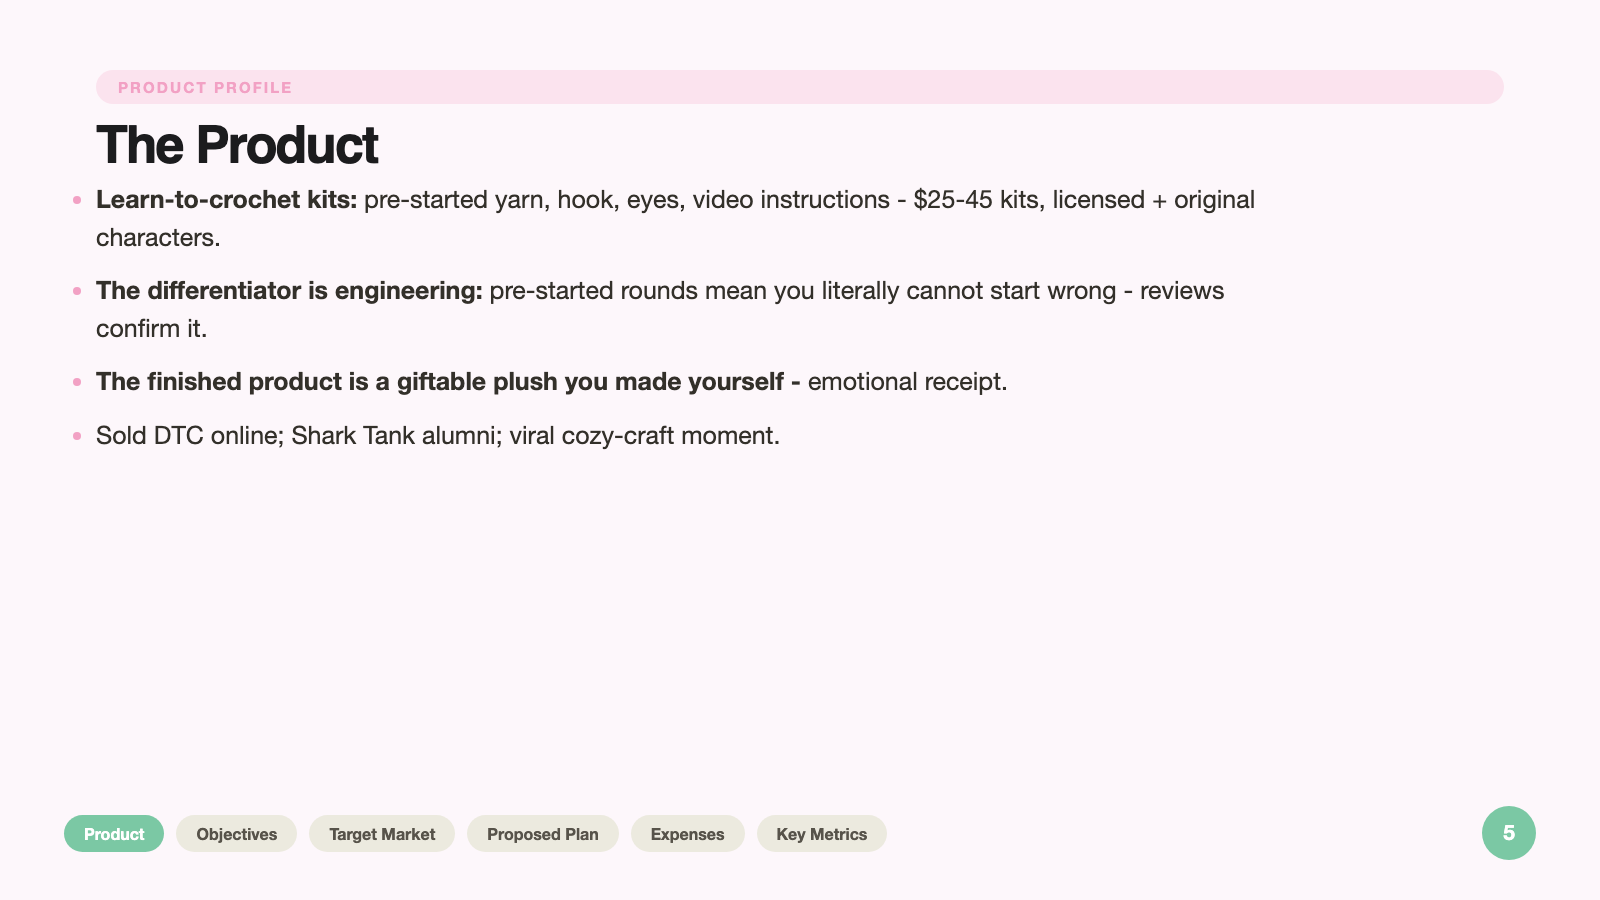
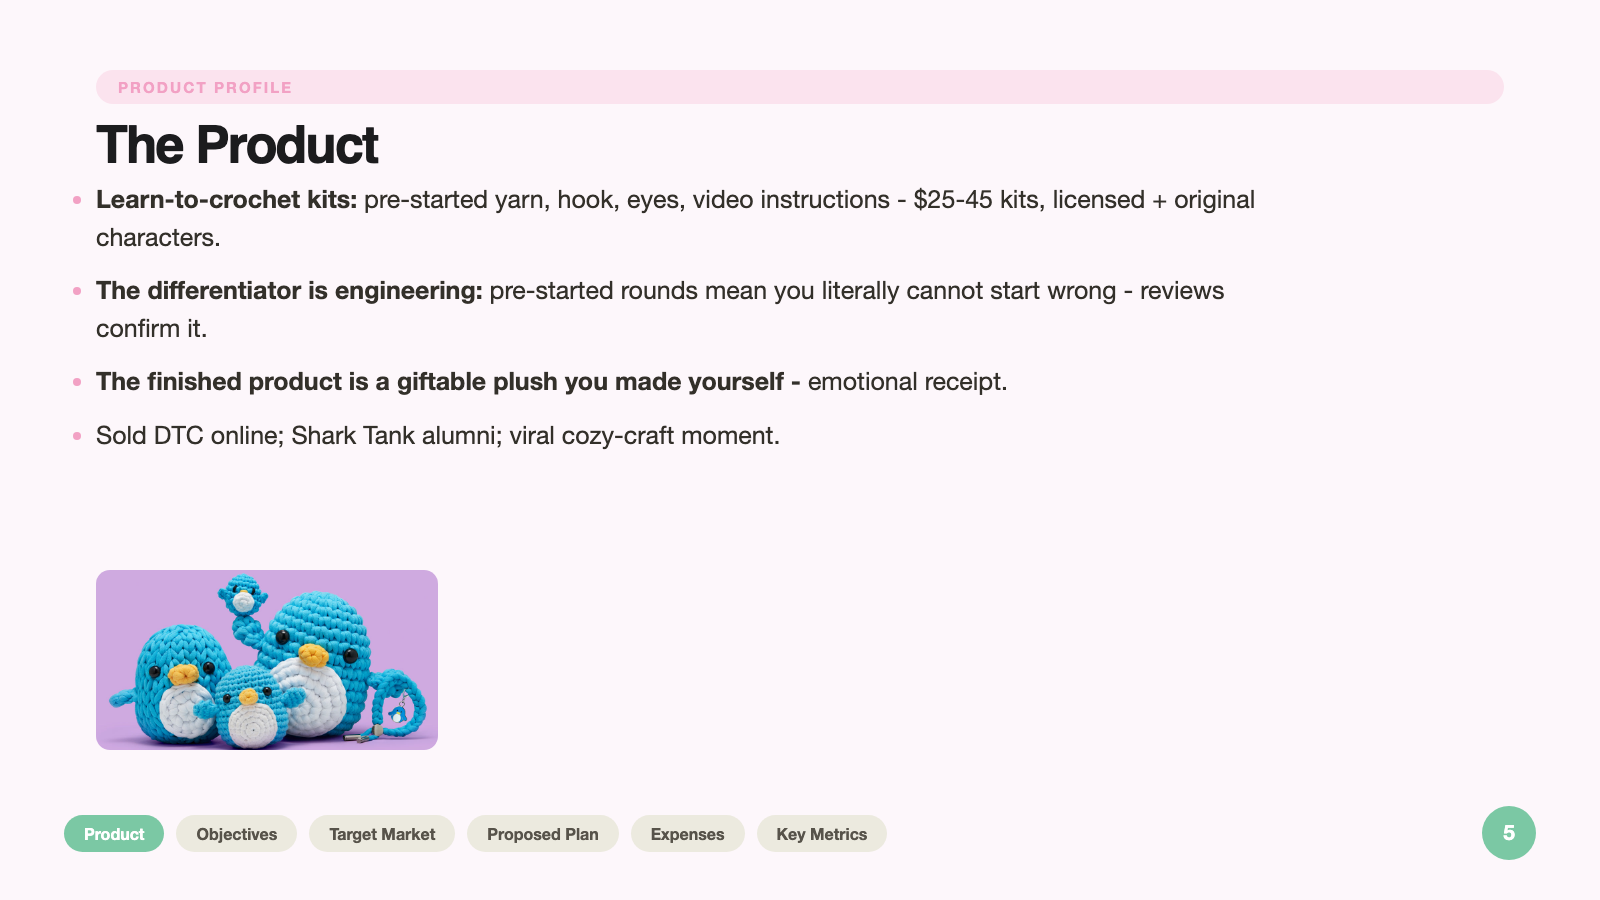
v21: real Woobles bundle photo on cover + product slide

Changed region(s): [[0.0625, 0.6222, 0.2812, 0.84]]

diff --git a/pipeline/runs/v21/imcp/p11.html b/pipeline/runs/v21/imcp/p11.html
@@ -68,4 +68,4 @@ img.vis{max-width:100%;max-height:560px;border-radius:16px;object-fit:contain;bo
 .tag{display:inline-block;background:var(--brand);color:#fff;border-radius:999px;padding:5px 14px;font-size:14px;font-weight:800;letter-spacing:.06em}
 .mono{font-family:'SF Mono',Menlo,monospace}
 </style></head>
-<body class="style-soft"><div class="page" style="background:#fdf7fb"><div class="frame"></div><div class="kick">CAMPAIGN STRATEGY</div><div class="h1">Campaign Strategy</div><div class="tbar"></div><div class="themep">Theme: Can&#x27;t Fail Club</div><div class="body" style="font-size:23px;max-width:1250px"><li class=""><b>Theme:</b> Can&#x27;t Fail Club - membership you earn by finishing.</li><li class=""><b>Push-pull:</b> workshops create the first success (pull); stitch-along + gift drops convert at home (push).</li><li class=""><b>Finished Wooble as social proof:</b> every finisher is an ad.</li><li class=""><b>PESO:</b> paid geo-social, earned maker-fair/library PR, shared WIP/finish posts, owned email/SMS + stitch series.</li></div><div style="display:flex;gap:14px;flex-wrap:wrap;margin-top:26px"><span class="navp" style="background:var(--brand);color:#fff;font-size:18px;padding:12px 24px">Instagram</span><span class="navp" style="background:var(--brand);color:#fff;font-size:18px;padding:12px 24px">QR offer</span><span class="navp" style="background:var(--brand);color:#fff;font-size:18px;padding:12px 24px">SMS</span><span class="navp" style="background:var(--brand);color:#fff;font-size:18px;padding:12px 24px">TikTok</span><span class="navp" style="background:var(--brand);color:#fff;font-size:18px;padding:12px 24px">UGC</span><span class="navp" style="background:var(--brand);color:#fff;font-size:18px;padding:12px 24px">YouTube</span><span class="navp" style="background:var(--brand);color:#fff;font-size:18px;padding:12px 24px">email</span></div><div class="navbar"><div class="navpills"><span class="navp">Product</span><span class="navp">Objectives</span><span class="navp">Target Market</span><span class="navp on">Proposed Plan</span><span class="navp">Expenses</span><span class="navp">Key Metrics</span></div><div class="pgcirc">11</div></div></div></body></html>
+<body class="style-soft"><div class="page" style="background:#fdf7fb"><div class="frame"></div><div class="kick">CAMPAIGN STRATEGY</div><div class="h1">Campaign Strategy</div><div class="tbar"></div><div class="cols2" style="margin-top:6px"><div class="col"><div class="themep" style="font-size:22px;padding:12px 30px">Theme: Can&#x27;t Fail Club</div><div class="body" style="font-size:20px"><li class=""><b>Theme:</b> Can&#x27;t Fail Club - membership you earn by finishing.</li><li class=""><b>Push-pull:</b> workshops create the first success (pull); stitch-along + gift drops convert at home (push).</li><li class=""><b>Finished Wooble as social proof:</b> every finisher is an ad.</li><li class=""><b>PESO:</b> paid geo-social, earned maker-fair/library PR, shared WIP/finish posts, owned email/SMS + stitch series.</li></div><div style="display:flex;gap:12px;flex-wrap:wrap;margin-top:20px"><span class="navp" style="background:var(--brand);color:#fff;font-size:18px;padding:12px 24px">Instagram</span><span class="navp" style="background:var(--brand);color:#fff;font-size:18px;padding:12px 24px">QR offer</span><span class="navp" style="background:var(--brand);color:#fff;font-size:18px;padding:12px 24px">SMS</span><span class="navp" style="background:var(--brand);color:#fff;font-size:18px;padding:12px 24px">TikTok</span><span class="navp" style="background:var(--brand);color:#fff;font-size:18px;padding:12px 24px">UGC</span><span class="navp" style="background:var(--brand);color:#fff;font-size:18px;padding:12px 24px">YouTube</span><span class="navp" style="background:var(--brand);color:#fff;font-size:18px;padding:12px 24px">email</span></div></div><div class="col"><img class="vis" src="file:///Users/pranav/Desktop/DevinProjects/imcp-product-finder/pipeline/runs/v21/webimg/web00.jpg" style="max-height:540px;width:100%;object-fit:contain"></div></div><div class="navbar"><div class="navpills"><span class="navp">Product</span><span class="navp">Objectives</span><span class="navp">Target Market</span><span class="navp on">Proposed Plan</span><span class="navp">Expenses</span><span class="navp">Key Metrics</span></div><div class="pgcirc">11</div></div></div></body></html>

diff --git a/pipeline/runs/v21/imcp/p05.html b/pipeline/runs/v21/imcp/p05.html
@@ -68,4 +68,4 @@ img.vis{max-width:100%;max-height:560px;border-radius:16px;object-fit:contain;bo
 .tag{display:inline-block;background:var(--brand);color:#fff;border-radius:999px;padding:5px 14px;font-size:14px;font-weight:800;letter-spacing:.06em}
 .mono{font-family:'SF Mono',Menlo,monospace}
 </style></head>
-<body class="style-soft"><div class="page" style="background:#fdf7fb"><div class="frame"></div><div class="kick">PRODUCT PROFILE</div><div class="h1">The Product</div><div class="tbar"></div><div class="body" style="font-size:25px;max-width:1200px"><li class=""><b>Learn-to-crochet kits:</b> pre-started yarn, hook, eyes, video instructions - $25-45 kits, licensed + original characters.</li><li class=""><b>The differentiator is engineering:</b> pre-started rounds mean you literally cannot start wrong - reviews confirm it.</li><li class=""><b>The finished product is a giftable plush you made yourself -</b> emotional receipt.</li><li class="">Sold DTC online; Shark Tank alumni; viral cozy-craft moment.</li></div><div class="navbar"><div class="navpills"><span class="navp on">Product</span><span class="navp">Objectives</span><span class="navp">Target Market</span><span class="navp">Proposed Plan</span><span class="navp">Expenses</span><span class="navp">Key Metrics</span></div><div class="pgcirc">5</div></div></div></body></html>
+<body class="style-soft"><div class="page" style="background:#fdf7fb"><div class="frame"></div><div class="kick">PRODUCT PROFILE</div><div class="h1">The Product</div><div class="tbar"></div><div class="body" style="font-size:25px;max-width:1200px"><li class=""><b>Learn-to-crochet kits:</b> pre-started yarn, hook, eyes, video instructions - $25-45 kits, licensed + original characters.</li><li class=""><b>The differentiator is engineering:</b> pre-started rounds mean you literally cannot start wrong - reviews confirm it.</li><li class=""><b>The finished product is a giftable plush you made yourself -</b> emotional receipt.</li><li class="">Sold DTC online; Shark Tank alumni; viral cozy-craft moment.</li></div><div style="display:grid;grid-template-columns:repeat(4,1fr);gap:14px;margin-top:auto"><img src="file:///Users/pranav/Desktop/DevinProjects/imcp-product-finder/pipeline/runs/v21/webimg/web00.jpg" style="width:100%;height:180px;object-fit:cover;border-radius:14px"></div><div class="navbar"><div class="navpills"><span class="navp on">Product</span><span class="navp">Objectives</span><span class="navp">Target Market</span><span class="navp">Proposed Plan</span><span class="navp">Expenses</span><span class="navp">Key Metrics</span></div><div class="pgcirc">5</div></div></div></body></html>

diff --git a/pipeline/runs/v21/imcp/p06.html b/pipeline/runs/v21/imcp/p06.html
@@ -68,4 +68,4 @@ img.vis{max-width:100%;max-height:560px;border-radius:16px;object-fit:contain;bo
 .tag{display:inline-block;background:var(--brand);color:#fff;border-radius:999px;padding:5px 14px;font-size:14px;font-weight:800;letter-spacing:.06em}
 .mono{font-family:'SF Mono',Menlo,monospace}
 </style></head>
-<body class="style-soft"><div class="page" style="background:#fdf7fb"><div class="frame"></div><div class="kick">COMPANY &amp; POSITION</div><div class="h1">Company &amp; Position</div><div class="tbar"></div><div class="cols2"><div class="col"><div class="body"><li class=""><b>Learn-to-crochet brand built for absolute beginners -</b> 200+ verified reviews, viral growth, licensed character lines.</li><li class="">Craft-kit market is growing with screen-fatigued beginners, but competitors sell to crafters - Woobles sells to the intimidated.</li><li class=""><b>Positioning gap:</b> &#x27;cute craft kit&#x27; is owned; &#x27;the kit that can&#x27;t fail&#x27; is unclaimed.</li><li class="">Campaign claims the guarantee.</li></div></div><div class="col"></div></div><div class="navbar"><div class="navpills"><span class="navp on">Product</span><span class="navp">Objectives</span><span class="navp">Target Market</span><span class="navp">Proposed Plan</span><span class="navp">Expenses</span><span class="navp">Key Metrics</span></div><div class="pgcirc">6</div></div></div></body></html>
+<body class="style-soft"><div class="page" style="background:#fdf7fb"><div class="frame"></div><div class="kick">COMPANY &amp; POSITION</div><div class="h1">Company &amp; Position</div><div class="tbar"></div><div class="cols2"><div class="col"><div class="body"><li class=""><b>Learn-to-crochet brand built for absolute beginners -</b> 200+ verified reviews, viral growth, licensed character lines.</li><li class="">Craft-kit market is growing with screen-fatigued beginners, but competitors sell to crafters - Woobles sells to the intimidated.</li><li class=""><b>Positioning gap:</b> &#x27;cute craft kit&#x27; is owned; &#x27;the kit that can&#x27;t fail&#x27; is unclaimed.</li><li class="">Campaign claims the guarantee.</li></div></div><div class="col"><img class="vis" src="file:///Users/pranav/Desktop/DevinProjects/imcp-product-finder/pipeline/runs/v21/webimg/web00.jpg"></div></div><div class="navbar"><div class="navpills"><span class="navp on">Product</span><span class="navp">Objectives</span><span class="navp">Target Market</span><span class="navp">Proposed Plan</span><span class="navp">Expenses</span><span class="navp">Key Metrics</span></div><div class="pgcirc">6</div></div></div></body></html>

diff --git a/pipeline/runs/v21/imcp/p08.html b/pipeline/runs/v21/imcp/p08.html
@@ -70,4 +70,4 @@ img.vis{max-width:100%;max-height:560px;border-radius:16px;object-fit:contain;bo
 </style></head>
 <body class="style-soft"><div class="page" style="background:#fdf7fb"><div class="frame"></div><div class="kick">AUDIENCE SEGMENTS</div><div class="h1">Target Market</div><div class="tbar"></div><div class="grid2" style="margin-top:22px"><div class="card"><div class="cl">P1 · CRAFT-CURIOUS BEGINNERS (16-34) (PRIMARY)</div>
 <div class="body" style="font-size:20px"><b>Who:</b> 16-34, students + young professionals, 70% female-skew<br><b>Where:</b> Austin TX metro (campuses, libraries, maker fairs)<br><b>Mindset:</b> wants a hobby but fears failing; cozy/TikTok-craft curious; screen-fatigued<br><b>Behavior:</b> impulse buys &lt;$40, joins workshops, shares WIP posts<br><b>Media:</b> TikTok, Instagram, Pinterest, campus/library foot traffic</div></div><div class="card"><div class="cl">P2 · GIFTERS + KIDLIT-ADJACENT BUYERS </div>
-<div class="body" style="font-size:20px"><b>Who:</b> 25-50, gift-buyers, parents<br><b>Where:</b> DFW/Austin + online<br><b>Mindset:</b> giftable, wholesome, screen-free<br><b>Behavior:</b> holiday/gift purchases, multi-kit orders<br><b>Media:</b> email, Facebook, YouTube</div></div></div><div class="navbar"><div class="navpills"><span class="navp">Product</span><span class="navp">Objectives</span><span class="navp">Target Market</span><span class="navp">Proposed Plan</span><span class="navp">Expenses</span><span class="navp">Key Metrics</span></div><div class="pgcirc">8</div></div></div></body></html>
+<div class="body" style="font-size:20px"><b>Who:</b> 25-50, gift-buyers, parents<br><b>Where:</b> DFW/Austin + online<br><b>Mindset:</b> giftable, wholesome, screen-free<br><b>Behavior:</b> holiday/gift purchases, multi-kit orders<br><b>Media:</b> email, Facebook, YouTube</div></div></div><div style="display:flex;gap:16px;margin-top:26px"><img src="file:///Users/pranav/Desktop/DevinProjects/imcp-product-finder/pipeline/runs/v21/webimg/web00.jpg" style="flex:1;height:140px;object-fit:cover;border-radius:14px;min-width:0"></div><div class="navbar"><div class="navpills"><span class="navp">Product</span><span class="navp">Objectives</span><span class="navp">Target Market</span><span class="navp">Proposed Plan</span><span class="navp">Expenses</span><span class="navp">Key Metrics</span></div><div class="pgcirc">8</div></div></div></body></html>

diff --git a/pipeline/runs/v21/imcp/p01.html b/pipeline/runs/v21/imcp/p01.html
@@ -75,4 +75,4 @@ img.vis{max-width:100%;max-height:560px;border-radius:16px;object-fit:contain;bo
 <div style="font-size:30px;color:#fff;opacity:.95;font-weight:600;max-width:1250px">The Woobles does not need cuter kits - it needs people who say &#x27;I&#x27;m not crafty&#x27; to discover the kit is engineered so they can&#x27;t fail, and the Can&#x27;t Fail Club turns a finished Wooble into a receipt, not a promise.</div>
 <div style="margin-top:40px;font-size:24px;color:#fff;opacity:.8">The Woobles · Integrated Marketing Campaign · December 2026 — DECA District</div>
 </div>
-</div></body></html>
+<div class="strip"><img src="file:///Users/pranav/Desktop/DevinProjects/imcp-product-finder/pipeline/runs/v21/webimg/web00.jpg"></div></div></body></html>
